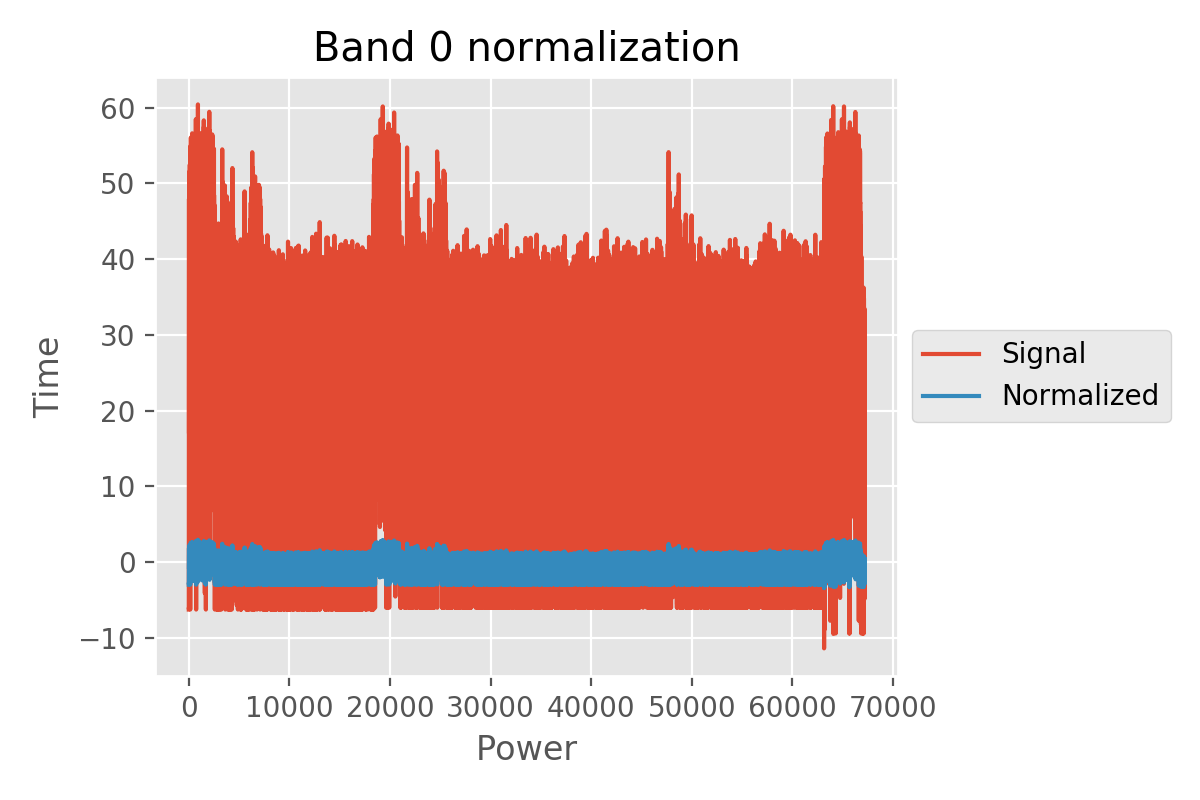
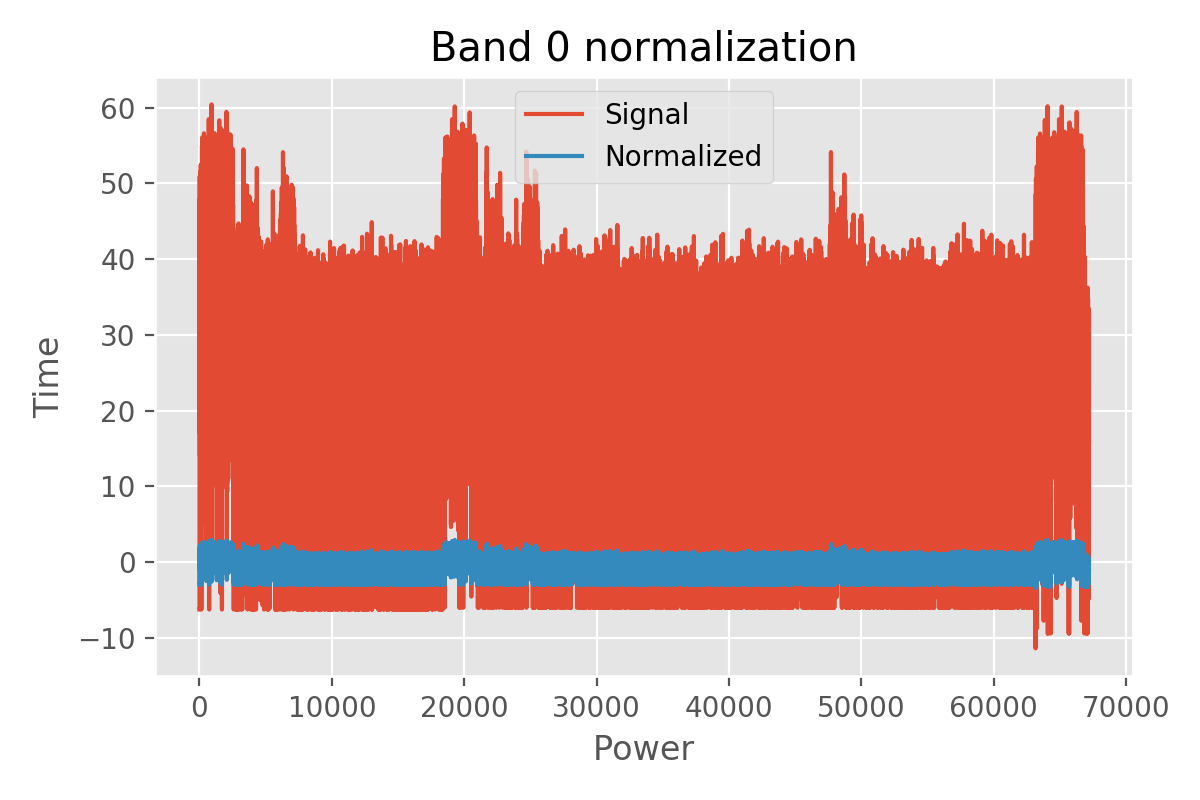
Minor changes in figures and added new histograms

diff --git a/chapters/eda.tex b/chapters/eda.tex
@@ -148,7 +148,14 @@ El siguiente paso sería analizar el audio como combinación de las pistas de ru
 
 En este caso la combinación es con los niveles de potencia que tiene cada uno de ellos sin adaptar su amplitud. Idealmente, la combinación de los audios debería ser para un \gls{SNR} dado. Es decir, adaptar las potencias de ruido y audio para que sea cual fuere la combinación de audio y ruido la relación entre señal y ruido fuera la misma. De este modo el algoritmo se entrenaría para un nivel de ruido constante dado un nivel de señal constante, un problema mucho más acotado que dejar libre las potencias de entrada de ruido a audio. Esto no se ha realizado porque se consideraba fuera de la primera aproximación que es lo que este trabajo propone.
 
-Se ha comprobado que la combinación de audio y ruido sea audible y, por consiguiente, el algoritmo pueda discernir entre los niveles de potencia. Esto se demuestra en la figura \ref{fig: combination_spectral} donde aún estando el ruido se pueden distinguir perfectamente las componentes frecuenciales de la voz.
+Se ha comprobado que la combinación de audio y ruido sea audible y, por consiguiente, el algoritmo pueda discernir entre los niveles de potencia. Esto se demuestra en la figura \ref{fig: combination_spectral} donde aún estando el ruido se pueden distinguir perfectamente las componentes frecuenciales de la voz. Una gráfica interesante es el histograma comparativo entre la señal sin ruido y la combinación de ambas como se muestra en la figura \ref{fig: band0_clean_noisy_hist}. Se puede apreciar que las formas de las distribuciones son similares teniendo la señal libre de ruido más componentes de energía baja, como es de esperar para aquellas bandas en las cuales la persona no habla.
+
+\begin{figure}[h!]
+	\centering
+	\includegraphics[width=0.6\columnwidth]{figures/band0_clean_noisy_hist.png}
+	\caption{Espectrograma de las pistas combinadas}
+	\label{fig: band0_clean_noisy_hist}
+\end{figure}
 
 \subsubsection{Conclusiones del análisis en el dominio de la frecuencia}
 De este breve análisis en el dominio de la frecuencia se pueden extraer varias conclusiones:
@@ -162,32 +169,39 @@ De este breve análisis en el dominio de la frecuencia se pueden extraer varias 
 \subsection{Dominio del tiempo}
 En el dominio del tiempo analizar una señal de tal alta tasa de muestreo es algo complicado. Es mucho más interesante estudiar la envuelta de la señal. En las figuras \ref{fig: voice_time} y \ref{fig: noise_time} se pueden ver las envueltas de las señales de audio y ruido respectivamente. En primer lugar se aprecia, al igual que en el espectro, que la voz es intermitente en el tiempo, existiendo pausas cortas y largas. Otro punto a destacar son las amplitudes, la del ruido es mucho menor, lo que va a permitir que al combinar ambos audios, el audio no se enmascare detrás del ruido como se ve en la figura \ref{fig: combination_time}.
 
-\begin{figure}[h!]
+\begin{figure*}[h!]
 	\centering
-	\includegraphics[width=0.9\columnwidth]{figures/audio_book_time.png}
-	\caption{Forma de la señal de audio en el dominio del tiempo}
-	\label{fig: voice_time}
-\end{figure}
-
-\begin{figure}[h!]
+	\begin{subfigure}[t]{0.5\textwidth}
+		\centering
+		\includegraphics[width=0.9\columnwidth]{figures/audio_book_time.png}
+		\caption{Forma de la señal de audio en el dominio del tiempo}
+		\label{fig: voice_time}
+	\end{subfigure}%
+	\hspace*{10pt}
+	\begin{subfigure}[t]{0.5\textwidth}
+		\centering
+		\includegraphics[width=0.9\columnwidth]{figures/noise_time.png}
+		\caption{Forma de la señal de ruido en el dominio del tiempo}
+		\label{fig: noise_time}
+	\end{subfigure}
+	\caption{Series temporales de las pistas de audio y ruido}
+\end{figure*}
+\begin{figure*}[h!]
 	\centering
-	\includegraphics[width=0.9\columnwidth]{figures/noise_time.png}
-	\caption{Forma de la señal de ruido en el dominio del tiempo}
-	\label{fig: noise_time}
-\end{figure}
+	\begin{subfigure}[t]{0.5\textwidth}
+		\centering
+		\includegraphics[width=\columnwidth]{figures/combination_time.png}
+		\caption{Forma de la señal combinada de audio y ruido en el dominio del tiempo}
+		\label{fig: combination_time}
+	\end{subfigure}%
+	\hspace*{10pt}
+	\begin{subfigure}[t]{0.5\textwidth}
+		\centering
+		\includegraphics[width=\columnwidth]{figures/hist_time.png}
+		\caption{Histogramas superpuestos de las tres señales}
+		\label{fig: hist_time}
+	\end{subfigure}
+	\caption{Serie temporal del audio combinado y comparativa de los histogramas en el dominio del tiempo}
+\end{figure*}
 
-\begin{figure}[h!]
-	\centering
-	\includegraphics[width=0.9\columnwidth]{figures/combination_time.png}
-	\caption{Forma de la señal combinada de audio y ruido en el dominio del tiempo}
-	\label{fig: combination_time}
-\end{figure}
-
-\begin{figure}[h!]
-	\centering
-	\includegraphics[width=0.9\columnwidth]{figures/hist_time.png}
-	\caption{Histogramas superpuestos de las tres señales}
-	\label{fig: hist_time}
-\end{figure}
-
-Otro aspecto interesante de las señales sería estudiar su histograma. En la figura \ref{fig: hist_time} se pueden ver los histogramas de las tres señales. Las conclusiones que se pueden extraer es que las tres señales están centradas en cero, algo lógico debido a la naturaleza de la medida, el audio es una onda de presión. La tres distribuciones son muy parecidas y no es útil usar el histograma para pasar de una distribución a otra. Un parámetro interesante es la \textbf{divergencia de Kullback–Leibler}
+Otro aspecto interesante de las señales sería estudiar su histograma. En la figura \ref{fig: hist_time} se pueden ver los histogramas de las tres señales. Las conclusiones que se pueden extraer es que las tres señales están centradas en cero, algo lógico debido a la naturaleza de la medida, el audio es una onda de presión. La tres distribuciones son muy parecidas y no es útil usar el histograma para pasar de una distribución a otra.

diff --git a/chapters/modelDesign.tex b/chapters/modelDesign.tex
@@ -456,18 +456,40 @@ donde: \\ \nonumber
 \end{align}
 \equationset{Ecuación de la normalización.}\label{eq: norm}
 
-Las figuras \ref{fig: noise_time} y \ref{fig: norm_hist} presentan las comparaciones en tiempo e histograma, respectivamente, entre la señal sin normalizar y la señal normalizada para la banda cero de una misma pista de audio más el ruido.
+Las figuras \ref{fig: noise_time} y \ref{fig: norm_hist} presentan las comparaciones en tiempo e histograma, respectivamente, entre la señal sin normalizar y la señal normalizada para la banda cero de una misma pista de audio más el ruido. La figuras \ref{fig: bands_hist} y \ref{fig: bands_norm_hist} presentan todas las bandas de un audio sin normalizar y normalizadas respectivamente.
 
-\begin{figure}[h!]
+\begin{figure*}[t!]
 	\centering
-	\includegraphics[width=0.75\columnwidth]{figures/band0_norm}
-	\caption{Comparación de la señal con su normalización en tiempo para la banda cero de un mismo audio con ruido}
-	\label{fig: norm_time}
-\end{figure}
+	\begin{subfigure}[t]{0.5\textwidth}
+		\centering
+		\includegraphics[width=\columnwidth]{figures/band0_norm}
+		\caption{Comparación de la señal con su normalización en tiempo para la banda cero de un mismo audio con ruido}
+		\label{fig: norm_time}
+	\end{subfigure}%
+	\hspace*{10pt}
+	\begin{subfigure}[t]{0.5\textwidth}
+		\centering
+		\includegraphics[width=\columnwidth]{figures/band0_norm_hist}
+		\caption{Comparación de los histogramas de la señal y su normalización para la banda cero de un mismo audio con ruido}
+		\label{fig: norm_hist}
+	\end{subfigure}
+	\caption{Comparación de la señal y su normalización para la primera banda de un audio combinado con ruido}
+\end{figure*}
 
-\begin{figure}[h!]
+\begin{figure*}[t!]
 	\centering
-	\includegraphics[width=0.75\columnwidth]{figures/band0_norm_hist}
-	\caption{Comparación de los histogramas de la señal y su normalización para la banda cero de un mismo audio con ruido}
-	\label{fig: norm_hist}
-\end{figure}
+	\begin{subfigure}[t]{0.5\textwidth}
+		\centering
+		\includegraphics[width=\textwidth]{figures/bands_hist}
+		\caption{Histograma de todas las bandas}
+		\label{fig: bands_hist}
+	\end{subfigure}%
+	\hspace*{10pt}
+	\begin{subfigure}[t]{0.5\textwidth}
+		\centering
+		\includegraphics[width=\textwidth]{figures/bands_norm_hist}
+		\caption{Histograma de todas las bandas normallizadas}
+		\label{fig: bands_norm_hist}
+	\end{subfigure}
+	\caption{Histogramas de todas las bandas de un audio combinado con ruido y su normalización}
+\end{figure*}

diff --git a/chapters/situationalAnalysis.tex b/chapters/situationalAnalysis.tex
@@ -995,6 +995,7 @@ El primero de ellos y, sobre el que más se basa este trabajo es una red llamada
 		\caption{Diagrama de bloques del eliminación de ruido en el dominio de la frecuencia\cite{rnnoise}}
 		\label{fig: rnn_block_diagram}
 	\end{subfigure}
+	\caption{Diagramas de flujo de la publicación de RNNoise}
 \end{figure*}
 
 La figura \ref{fig: rnn_structure} presenta la arquitectura del algoritmo presentado. Se puede ver que tiene un detector de actividad vocal encargado de discernir cuando se elimina el ruido y cuando no. La figura \ref{fig: rnn_block_diagram} presenta el diagrama de bloques de la eliminación de ruido en el dominio de la frecuencia. Este trabajo calcula una \gls{FFT} con muy poca precisión frecuencial debido al enventanado que utiliza. Es por esta razón que la red neuronal sólo se utiliza como asistencia de la cadena de \gls{DSP}.
@@ -1032,6 +1033,7 @@ En la figura \ref{fig: rnn_nn}\cite{rnnoise} se puede ver la red neuronal que im
 	\caption{\gls{FFT} del audio original sin ruido\cite{rnnoise}}
 	\label{fig: rnn_fft_clean}
 	\end{subfigure}
+	\caption{\acrshort{FFT}s de la publicación de RNNoise}
 \end{figure*}
 
 En las figuras \ref{fig: rnn_fft_noisy}, \ref{fig: rnn_fft_denoised} y \ref{fig: rnn_fft_clean} se pueden ver las \glspl{FFT} con ruido, limpiadas por el algoritmo y la original sin ruido, respectivamente. El resultado es bastante bueno dado que el espectrograma sin ruido y el de ruido eliminado son muy parecidos. El código se encuentra disponible en Github\cite{git_rnnoise} y se distribuye como una \gls{API} para su integración en proyectos mayores.
